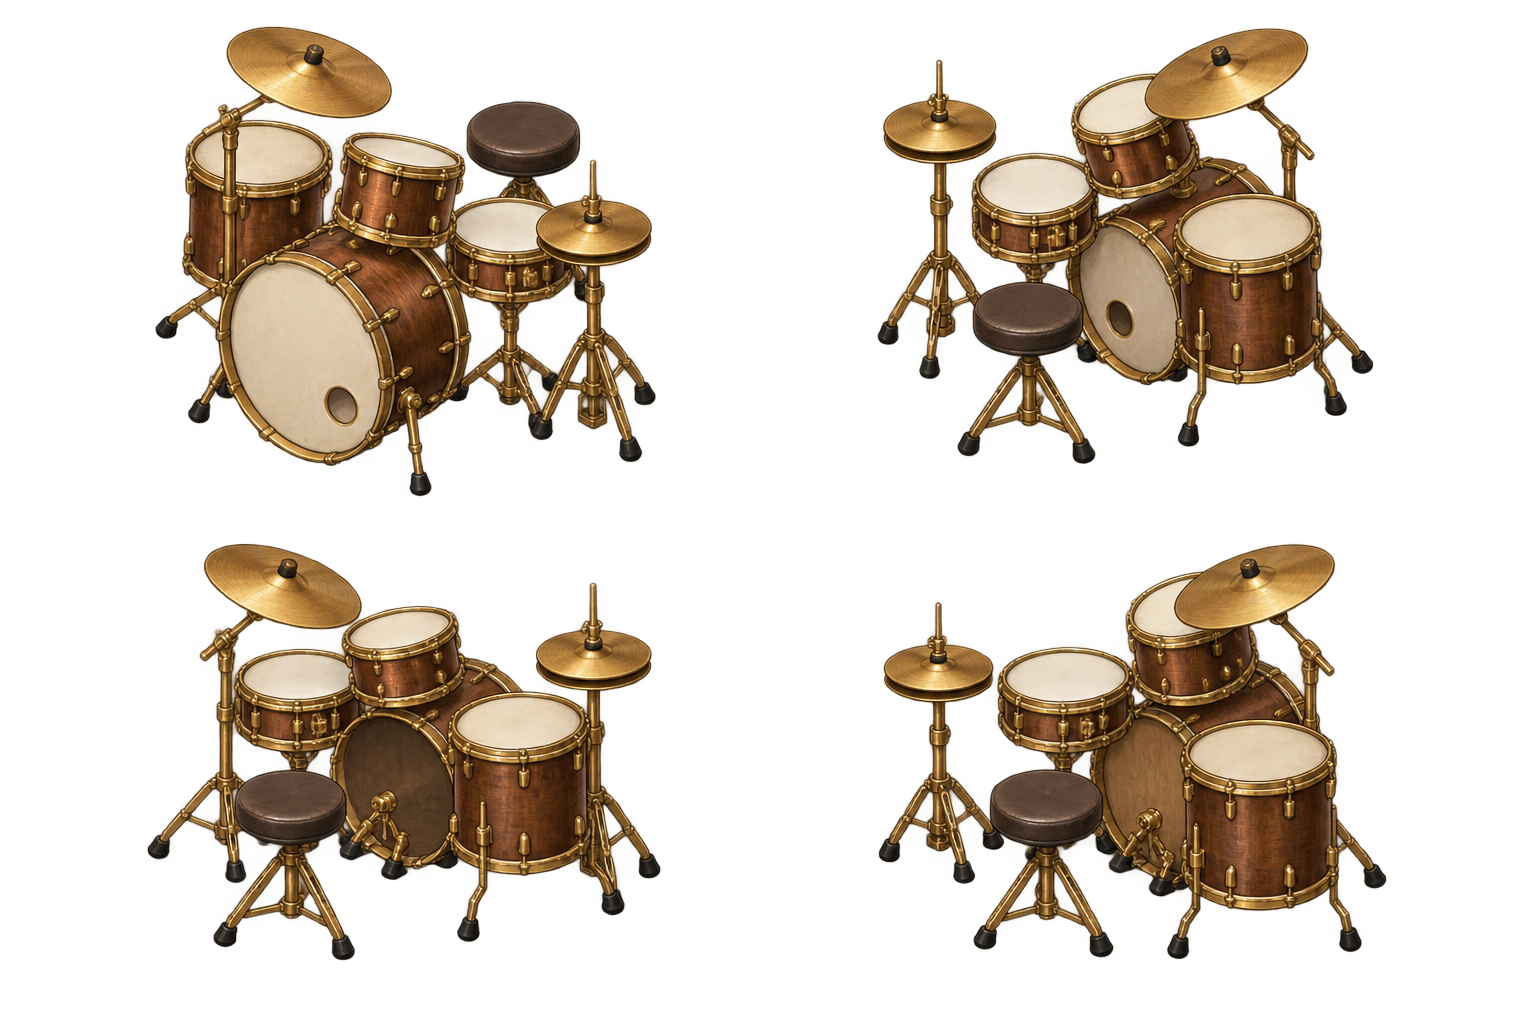
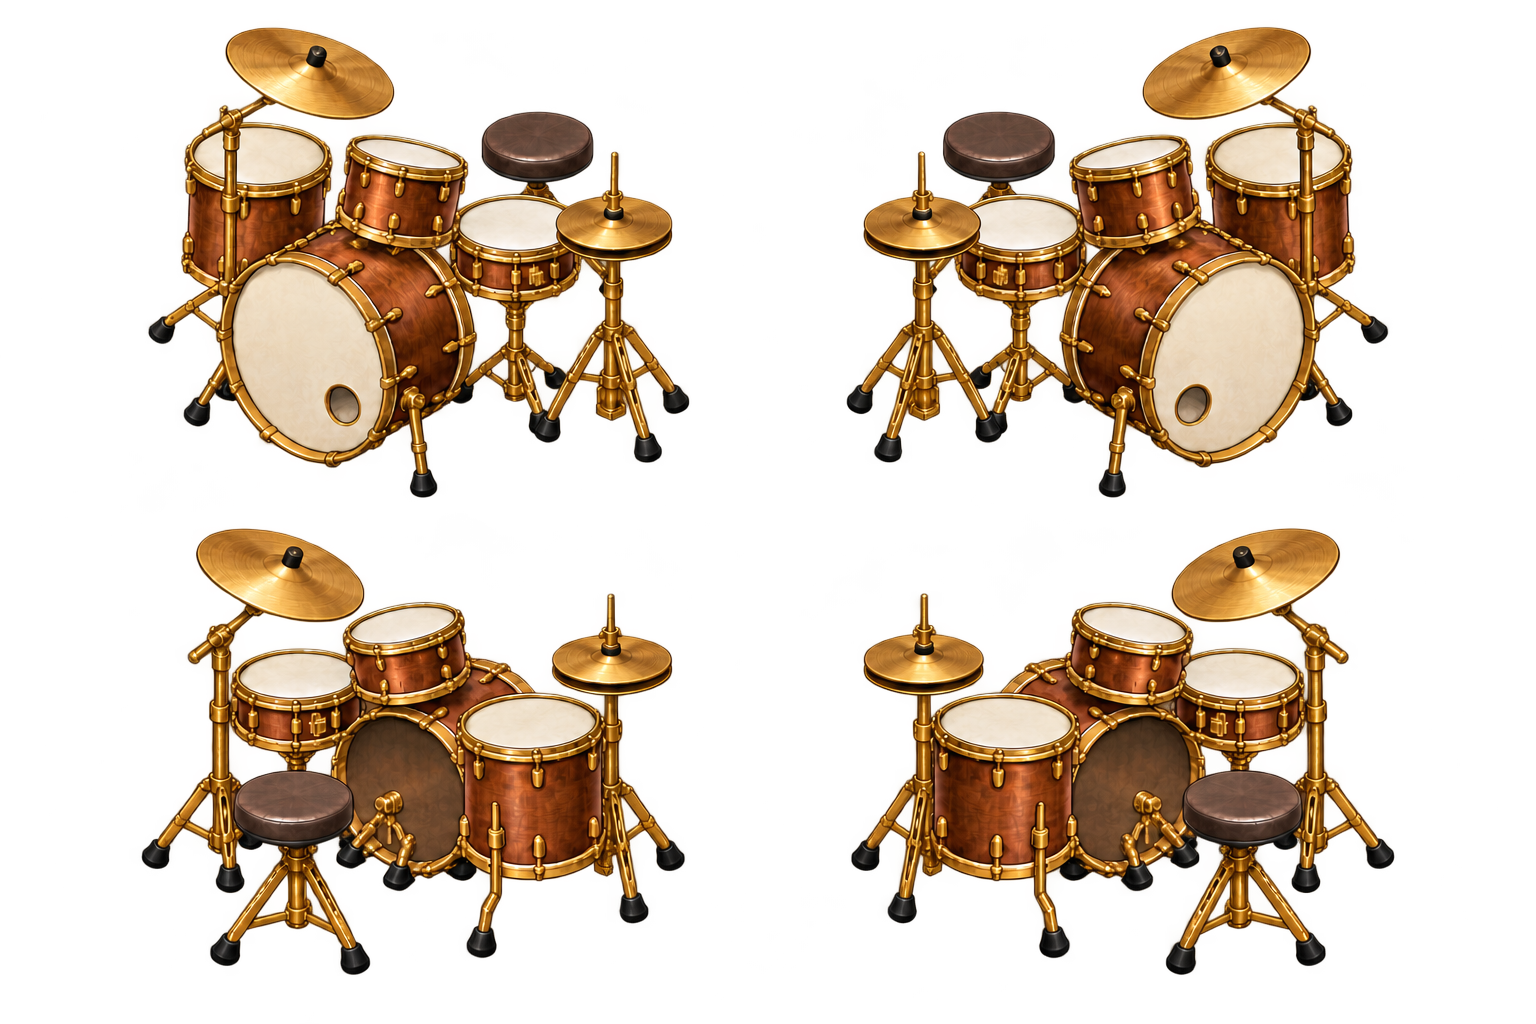
Align drum kit front and rear mirrored sprite pairs

diff --git a/docs/games/ast-home/mansion.js b/docs/games/ast-home/mansion.js
@@ -74,5 +74,5 @@ function load(src){return new Promise((resolve,reject)=>{const im=new Image();im
 function scan(im){const c=document.createElement('canvas');c.width=im.width;c.height=im.height;const g=c.getContext('2d');g.drawImage(im,0,0);const data=g.getImageData(0,0,c.width,c.height).data;return [0,1,2,3].map(n=>{const sx=Math.floor(n%2*c.width/2),sy=Math.floor(Math.floor(n/2)*c.height/2),ex=Math.floor((n%2+1)*c.width/2),ey=Math.floor((Math.floor(n/2)+1)*c.height/2);let l=ex,r=sx,t=ey,b=sy;for(let y=sy;y<ey;y++)for(let x=sx;x<ex;x++)if(data[(y*c.width+x)*4+3]>40){l=Math.min(l,x);r=Math.max(r,x);t=Math.min(t,y);b=Math.max(b,y)}return {x:l,y:t,w:r-l+1,h:b-t+1}})}
 function renderStore(){const kind=parent?'surface':AREAS[area].kind;$('houseStoreTitle').textContent=parent?'식탁 위 음식':AREAS[area].name+' · 아이템 구매';$('storeHint').textContent=parent?'음식은 식탁 위에만 배치됩니다.':'이 영역에 맞는 아이템만 표시됩니다.';const cards=$('houseCards');cards.replaceChildren();for(const d of HOUSE_ITEMS.filter(d=>d.places.includes(kind))){const b=document.createElement('button');b.className='card';b.dataset.type=d.id;b.disabled=busy||!connected||!supported||state.coins<d.price||(newItems.has(d.id)&&catalogVersion<2);b.classList.toggle('insufficient',b.disabled);const c=document.createElement('canvas');c.width=180;c.height=140;const f=frames[d.id][0],scale=Math.min(165/f.w,130/f.h);c.getContext('2d').drawImage(sprites[d.id],f.x,f.y,f.w,f.h,(180-f.w*scale)/2,(140-f.h*scale)/2,f.w*scale,f.h*scale);const name=document.createElement('strong');name.textContent=d.name;const details=document.createElement('small');details.textContent=newItems.has(d.id)&&catalogVersion<2?'서버 업데이트 필요':d.category+' · '+d.w+' × '+d.h+'셀';const cost=document.createElement('span'),coin=document.createElement('img');coin.src='assets/ui/ast-coin.png';coin.className='ast-coin';coin.alt='아스트';cost.append(coin,document.createTextNode(String(d.price)));b.append(c,name,details,cost);b.onclick=()=>{if(busy||!connected||state.coins<d.price)return;$('houseStore').close();const item={uid:crypto.randomUUID(),type:d.id,area,x:0,y:0,rotation:0};if(parent)item.parent=parent;const bounds=parent?definition(state.items.find(i=>i.uid===parent).type).surface:AREAS[area];let found=false;for(let y=0;y<bounds.h&&!found;y++)for(let x=0;x<bounds.w&&!found;x++){item.x=x;item.y=y;if(canBuild(item,state.items))found=true}if(!found){status('이 영역에 빈 공간이 없습니다.');return}startDraft(item,true)};cards.append(b)}}
 $('houseShop').onclick=async()=>{if(!area||draft||busy)return;renderStore();$('houseStore').showModal();if(shared){$('storeHint').textContent='최신 아스트 잔액 확인 중…';await sync();if(!connected){$('storeHint').textContent='서버 연결을 확인한 뒤 다시 시도하세요.';renderStore();return}renderStore()}};$('houseStoreClose').onclick=()=>$('houseStore').close();
-async function start(){try{const work=[1,2].map(async n=>{backgrounds[n]=await load(n===1?'assets/house/floor-1-approved-v5.png':'assets/house/floor-2.png')});for(const d of HOUSE_ITEMS)work.push((async()=>{const existing=['plant','bookshelf','chair','coffee-table'].includes(d.asset);const im=await load(`assets/${existing?'furniture':'house'}/${d.asset}-4dir.png${d.asset==='tv-console'?'?v=20261019-tv2':d.asset==='guitar'?'?v=20261019-guitar2':''}`);sprites[d.id]=im;frames[d.id]=scan(im)})());await Promise.all(work);ready=true;renderAreas();draw();await sync()}catch(e){status(e.message);$('houseSync').onclick=()=>location.reload()}}
+async function start(){try{const work=[1,2].map(async n=>{backgrounds[n]=await load(n===1?'assets/house/floor-1-approved-v5.png':'assets/house/floor-2.png')});for(const d of HOUSE_ITEMS)work.push((async()=>{const existing=['plant','bookshelf','chair','coffee-table'].includes(d.asset);const im=await load(`assets/${existing?'furniture':'house'}/${d.asset}-4dir.png${d.asset==='tv-console'?'?v=20261019-tv2':d.asset==='guitar'?'?v=20261019-guitar2':d.asset==='drum-kit'?'?v=20261019-drum2':''}`);sprites[d.id]=im;frames[d.id]=scan(im)})());await Promise.all(work);ready=true;renderAreas();draw();await sync()}catch(e){status(e.message);$('houseSync').onclick=()=>location.reload()}}
 start();

diff --git a/docs/games/ast-home/index.html b/docs/games/ast-home/index.html
@@ -1,6 +1,6 @@
 <!doctype html>
-<html lang="ko"><head><meta charset="utf-8"><meta name="viewport" content="width=device-width,initial-scale=1"><title>My Home</title><link rel="stylesheet" href="style.css?v=20261019-camera1"><link rel="stylesheet" href="house.css?v=20261019-house4"></head>
+<html lang="ko"><head><meta charset="utf-8"><meta name="viewport" content="width=device-width,initial-scale=1"><title>My Home</title><link rel="stylesheet" href="style.css?v=20261019-camera1"><link rel="stylesheet" href="house.css?v=20261019-house5"></head>
 <body><header><strong>MY HOME <small>우리 집 꾸미기</small></strong><div><span class="ast-balance"><img class="ast-coin" src="assets/ui/ast-coin.png" alt=""><span id="wallet">잔액 확인 중…</span></span><button id="retrySync" hidden>다시 연결</button><button id="shopButton">＋ 아이템 구매</button></div></header>
 <main><div id="zoomControls" aria-label="화면 확대"><button id="zoomOut" aria-label="축소" disabled>−</button><button id="zoomReset" aria-label="100%로 초기화">100%</button><button id="zoomIn" aria-label="확대">＋</button></div><button id="enterMansion" hidden aria-label="본관 실내로 입장">↳ ENTER</button><canvas id="game" width="1536" height="1024" aria-label="가구를 선택하고 바닥 셀을 눌러 배치하는 거실"></canvas><p id="status" role="status">가구 이미지를 불러오는 중…</p><div id="actions" hidden><span id="furnitureDetails"></span><button id="move">✥ 이동</button><button id="rotateSelected">↻ 회전</button></div><div id="placement" hidden><button id="rotateDraft">↻ 회전</button><button id="confirm"><span>O 확정</span><span class="confirm-cost"><img class="ast-coin" src="assets/ui/ast-coin.png" alt="아스트"><span id="confirmCost">0</span></span></button><button id="cancel">X 취소</button></div></main>
 <dialog id="shop"><div class="dialogHeading"><h2>가구 구매</h2><button id="closeShop" aria-label="닫기">✕</button></div><p id="shopNotice">가구를 고른 뒤 바닥 셀에 배치하세요. 확정할 때 아스트가 사용됩니다.</p><div id="catalog"></div><small>구매 확정 시 표시된 아스트가 사용됩니다.</small></dialog>
-<script type="module">if(new URLSearchParams(location.search).get("scene")==="mansion"){import("./mansion.js?v=20261019-house4")}else{import("./game.js?v=20261019-house4")}</script></body></html>
+<script type="module">if(new URLSearchParams(location.search).get("scene")==="mansion"){import("./mansion.js?v=20261019-house5")}else{import("./game.js?v=20261019-house5")}</script></body></html>
